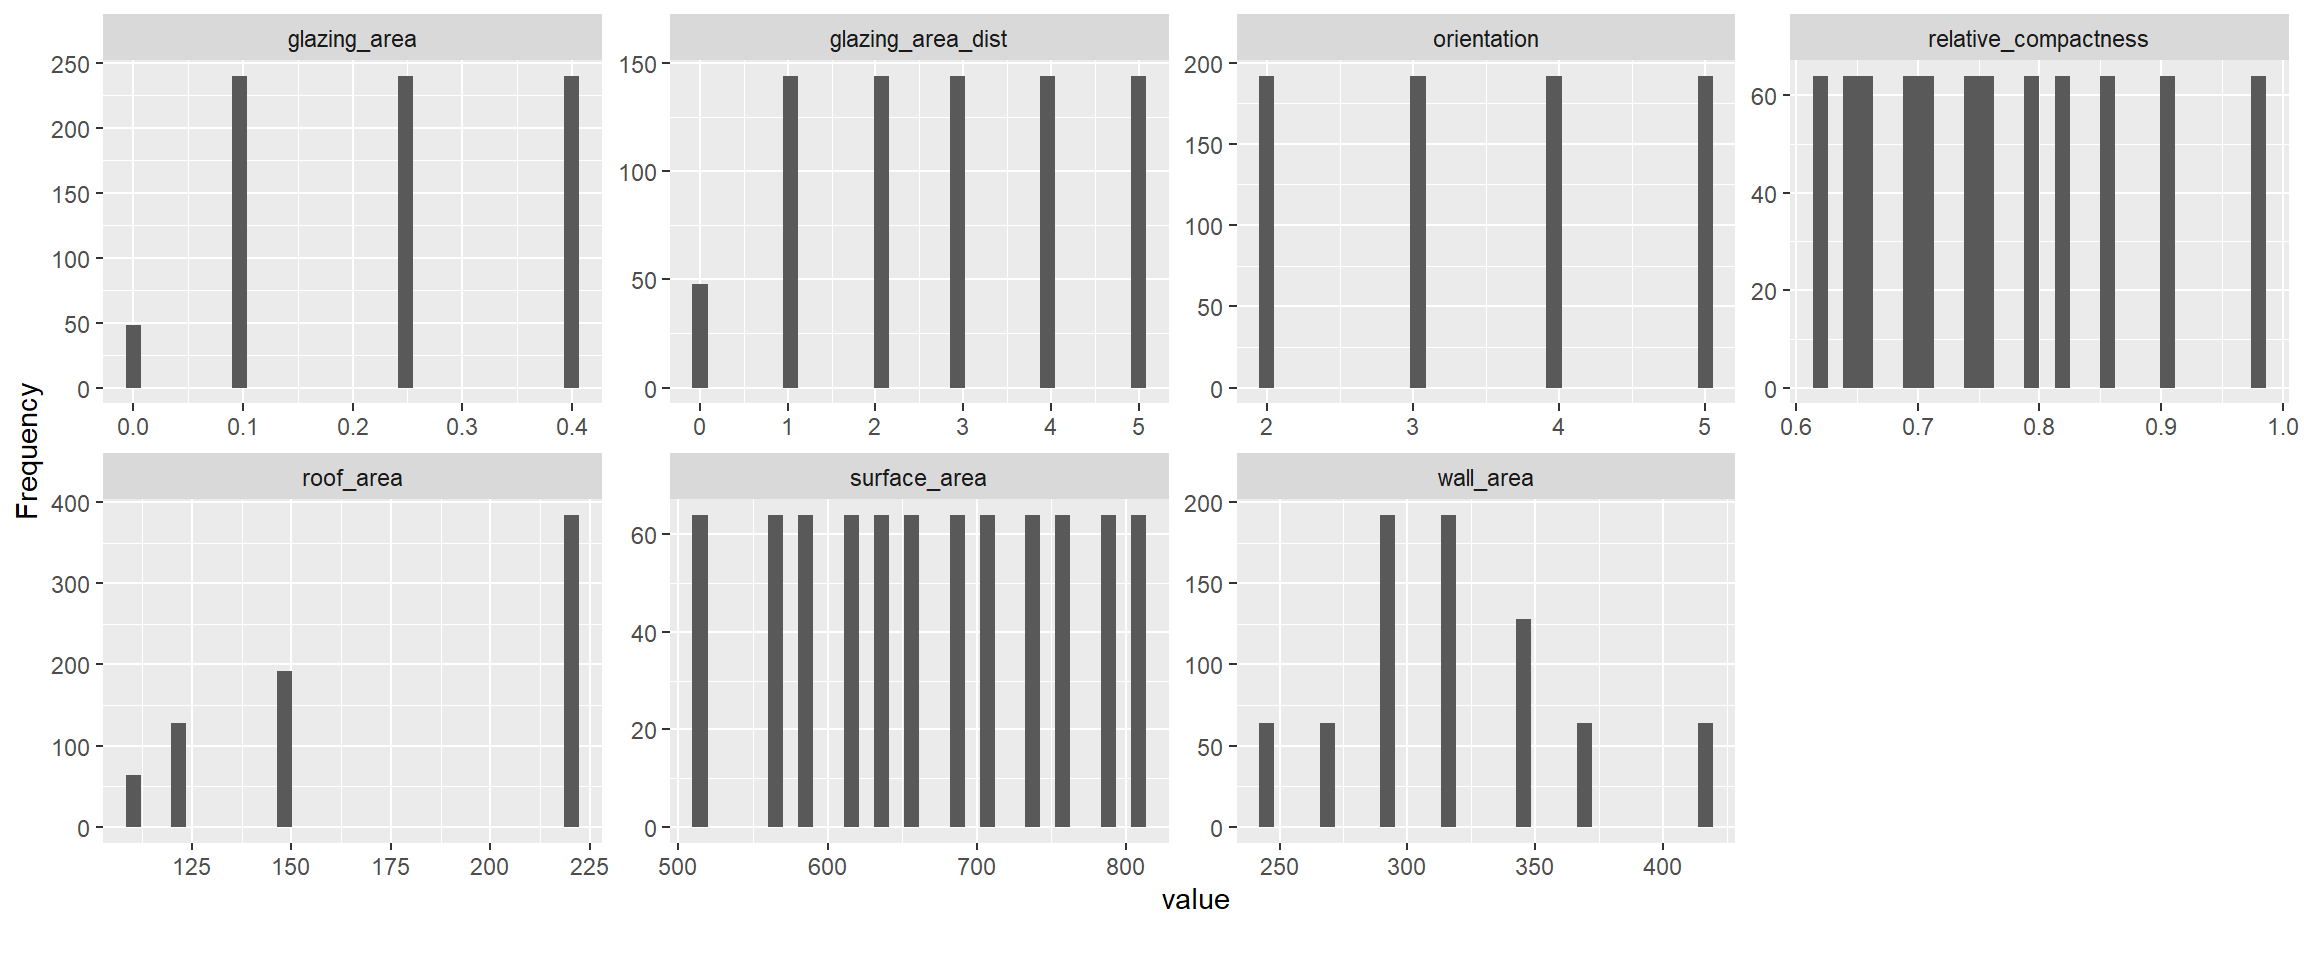
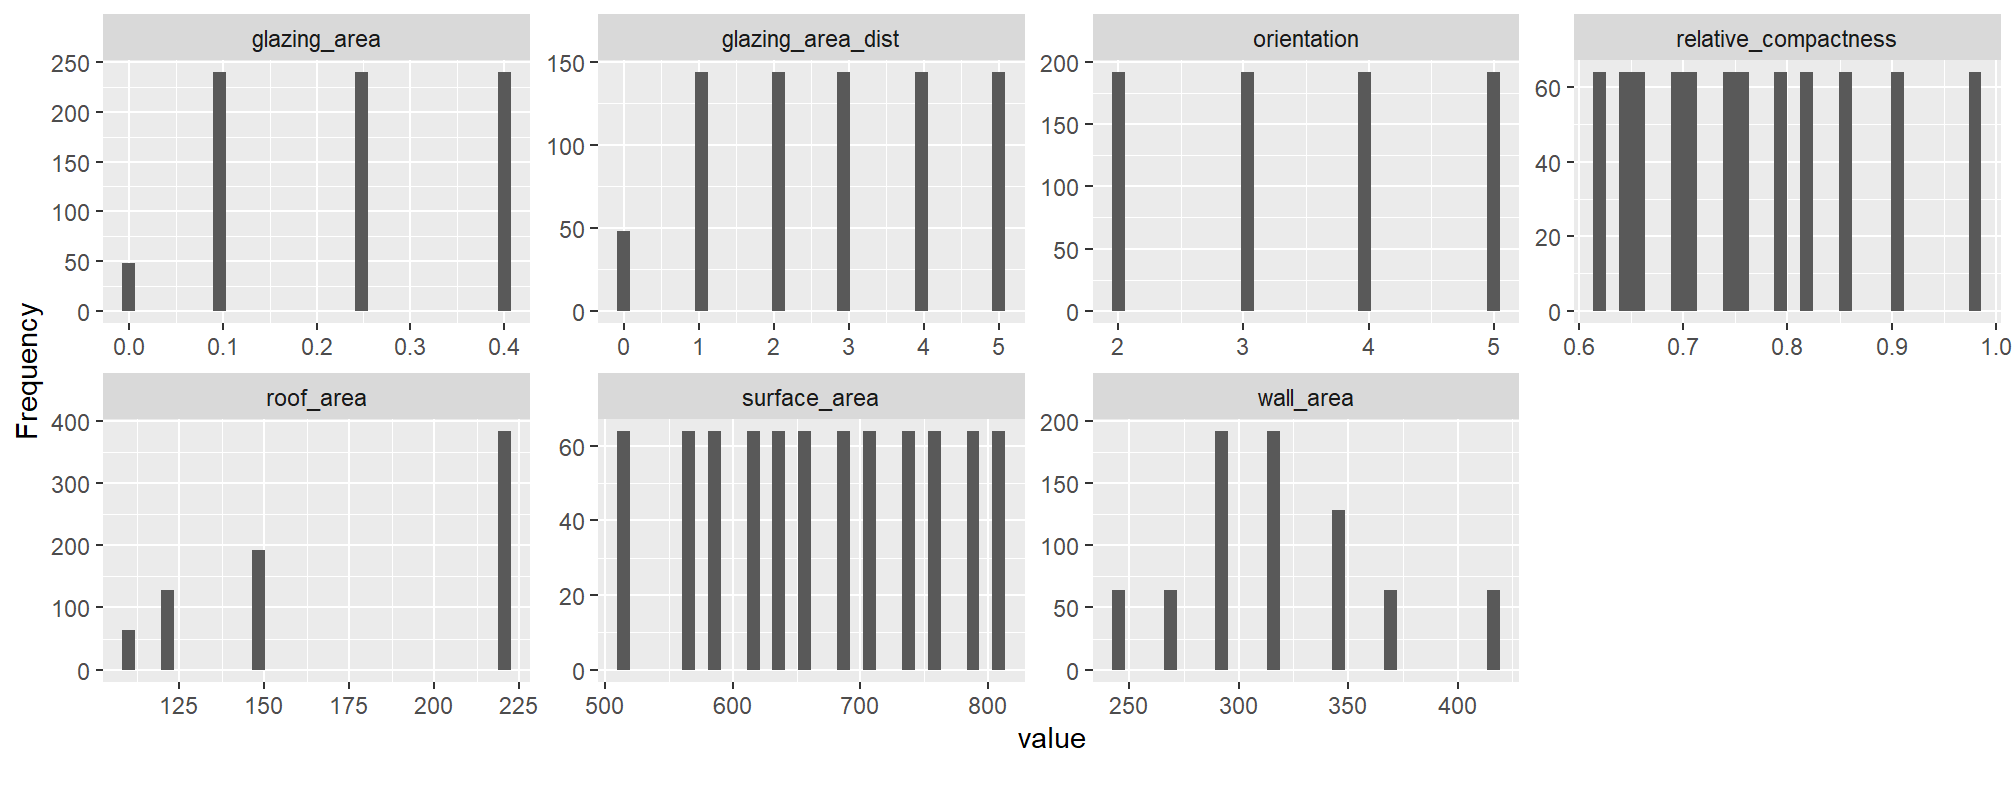
Update to tab formats

diff --git a/docs/index.html b/docs/index.html
@@ -2116,7 +2116,7 @@ value indicates a proportional relationship.</p>
 </div>
 <div id="eda" class="section level1">
 <h1>EDA</h1>
-<div id="column-5" class="section level2" data-width="375">
+<div id="column-5" class="section level2" data-width="250">
 <h2>Column</h2>
 <div id="investigating-the-data" class="section level3">
 <h3>Investigating the Data</h3>
@@ -2131,7 +2131,7 @@ response variables</p></li>
 </ul>
 </div>
 </div>
-<div id="column-6" class="section level2 tabset" data-width="625">
+<div id="column-6" class="section level2 tabset" data-width="750">
 <h2 class="tabset">Column</h2>
 <div id="scatterplots" class="section level3">
 <h3>Scatterplots</h3>
@@ -2148,10 +2148,10 @@ except for:</p>
 another, this relationship is not very useful. This supports the claim
 made by the original work: classical regression may be insufficient for
 modeling the complex relationships in this data.</p>
-<div class="knitr-options" data-fig-width="1152" data-fig-height="552">
+<div class="knitr-options" data-fig-width="1008" data-fig-height="480">
 
 </div>
-<p><img src="index_files/figure-html/scatter-plots-1.png" width="1152" data-figure-id=fig2 style="display: block; margin: auto;" /></p>
+<p><img src="index_files/figure-html/scatter-plots-1.png" width="1008" data-figure-id=fig2 style="display: block; margin: auto;" /></p>
 </div>
 </div>
 <div id="predictor-histograms" class="section level3">
@@ -2173,10 +2173,10 @@ discrete nature of the data and the constraints around the simulated
 buildings discussed earlier.Note that there is no histogram shown for
 overall height. This is due to the discreteness of the data. There are
 only two possible values for this predictor: 3.5 and 7 meters.</p>
-<div class="knitr-options" data-fig-width="1152" data-fig-height="483">
+<div class="knitr-options" data-fig-width="1008" data-fig-height="403">
 
 </div>
-<p><img src="index_files/figure-html/predictor-histograms-1.png" width="1152" data-figure-id=fig3 style="display: block; margin: auto;" /></p>
+<p><img src="index_files/figure-html/predictor-histograms-1.png" width="1008" data-figure-id=fig3 style="display: block; margin: auto;" /></p>
 </div>
 </div>
 <div id="response-histograms" class="section level3">
@@ -2192,10 +2192,10 @@ data:</p>
 response variables. There appears to be a slight imbalance in both
 variables, though this could partially be attributed to the size of the
 histogram bins.</p>
-<div class="knitr-options" data-fig-width="1152" data-fig-height="599">
+<div class="knitr-options" data-fig-width="1008" data-fig-height="480">
 
 </div>
-<p><img src="index_files/figure-html/response-histograms-1.png" width="1152" data-figure-id=fig4 style="display: block; margin: auto;" /></p>
+<p><img src="index_files/figure-html/response-histograms-1.png" width="1008" data-figure-id=fig4 style="display: block; margin: auto;" /></p>
 </div>
 </div>
 <div id="spearman-correlation-analysis" class="section level3">
@@ -2608,13 +2608,8 @@ output variable for the <span class="math inline">\(i^{th}\)</span>
 entry in the test fold, <span class="math inline">\(S\)</span> is the
 number of samples in the test fold, and <span
 class="math inline">\(Q\)</span> contains the indices of the test fold.
-Each repetition results in 10 independent error measurements.</p>
-<p>We end up with 1000 independent error measurements given <span
-class="math inline">\(K = 10\)</span> and 100 repetitions. The reported
-MAE, MSE, and MRE values are the average values of all the measurements,
-plus or minus one standard deviation. The reported errors for the IRLS
-and RF models come directly from the original work <span
-class="citation">(Tsanas &amp; Xifara, 2012)</span>.</p>
+We end up with 1000 independent error measurements. The reported metrics
+are the average values, plus or minus one standard deviation.</p>
 <div class="knitr-options" data-fig-width="576" data-fig-height="460">
 
 </div>
@@ -2765,10 +2760,7 @@ variable determined via RF. For the MLR model, the “importance” is the
 magnitude of the standardized coefficients. For a better understanding
 of how RF determines variable importance, we recommend reviewing the
 literature <span class="citation">(Strobl, Boulesteix, Zeileis, &amp;
-Hothorn, 2007)</span>.</p>
-<p>For both models, a larger magnitude for a given predictor indicates a
-larger impact on the response variable. The values for each model are
-not on the same scale. The ranking of variable importance is denoted in
+Hothorn, 2007)</span>. The ranking of variable importance is denoted in
 the parenthesis next to each variables importance value, where 1 is the
 most important.</p>
 <p>The heating and cooling load RF models have similar orders of
@@ -2776,14 +2768,13 @@ importance, but the cooling load model found glazing area distribution
 and orientation to be more important than its heating load counterpart.
 The heating and cooling load MLR models have the same order of
 importance for the predictors they have in common.</p>
-<p>The heating load model has glazing area distribution area as an
-additional predictor, but it has the smallest magnitude of all the
-standardized coefficients. Interestingly, the RF model found that roof
-area and orientation were two of the least important predictors in both
+<p>The MLR heating load model has glazing area distribution area as an
+additional predictor. Interestingly, the RF model found that roof area
+and orientation were two of the least important predictors in both
 models, both of which were removed as predictors from the MLR
 models.</p>
-<p>The MLR cooling load model also removed glazing area distribution as
-a predictor, which the RF cooling load model found to have moderate
+<p>The MLR cooling load model removed glazing area distribution as a
+predictor, which the RF cooling load model found to have moderate
 relative importance. However, both RF models found glazing area to be
 the most important predictor, while both MLR models found it to be one
 of the least important variables used.</p>
@@ -2876,23 +2867,22 @@ the complex, non-linear relationships in this dataset.</p>
 </div>
 <div id="summary" class="section level1">
 <h1>Summary</h1>
-<div id="column-11" class="section level2" data-width="650">
+<div id="column-11" class="section level2" data-width="300">
 <h2>Column</h2>
-<div id="final-model-interpretations" class="section level3"
-data-height="300">
+<div id="final-model-interpretations" class="section level3">
 <h3>Final Model Interpretations</h3>
 <p>Given the final MLR heating and cooling load estimated standardized
 coefficients, the estimated models can be written as follows:</p>
 <ul>
 <li><p><span class="math inline">\(\hat{Heat \space Load} =
 6.85(\textit{relative compactness}) + 7.69(\textit{surface area}) +
-2.65(\textit{wall area}) + 7.30(\textit{overall height}) +
-2.66(\textit{glazing area}) + 0.32(\textit{glazing area
+\newline 2.65(\textit{wall area}) + 7.30(\textit{overall height}) +
+\newline 2.66(\textit{glazing area}) + 0.32(\textit{glazing area
 distribution})\)</span></p></li>
 <li><p><span class="math inline">\(\hat{Cool \space Load} =
 7.49(\textit{relative compactness}) + 7.78(\textit{surface area}) +
-1.95(\textit{wall area}) + 7.50(\textit{overall height}) +
-1.97(\textit{glazing area})\)</span></p></li>
+\newline 1.95(\textit{wall area}) + 7.50(\textit{overall height}) +
+\newline 1.97(\textit{glazing area})\)</span></p></li>
 </ul>
 <p>Since only the predictors were standardized, interpretation is as
 follows, within model context. Relative compactness from the heating
@@ -2900,7 +2890,10 @@ load model is used here as an example: for every one-standard-deviation
 change in relative compactness, the expected change in heat load is 6.85
 units, holding all other variables constant.</p>
 </div>
-<div id="conclusion" class="section level3" data-height="700">
+</div>
+<div id="column-12" class="section level2" data-width="350">
+<h2>Column</h2>
+<div id="conclusion" class="section level3">
 <h3>Conclusion</h3>
 <p>In this project, we perform 10-fold CV of a publicly available
 dataset from simulated EPB data. Previous work <span
@@ -2943,9 +2936,9 @@ work, guide intuitions and decisions made when it comes to real-world
 analysis.</p>
 </div>
 </div>
-<div id="column-12" class="section level2" data-width="350">
+<div id="column-13" class="section level2" data-width="250">
 <h2>Column</h2>
-<div id="author-information" class="section level3">
+<div id="author-information" class="section level3" data-height="45">
 <h3>Author Information</h3>
 <p>Eric Smith is a PhD student in the department of Electrical and
 Computer Engineering at the University of Dayton. He holds a B.S. in
@@ -2957,7 +2950,7 @@ interests broadly include computer vision problems involving object
 detection and tracking, with his most recent work focused on a modular
 algorithm for small drone detection and tracking.</p>
 </div>
-<div id="references" class="section level3">
+<div id="references" class="section level3" data-height="40">
 <h3>References</h3>
 <div id="refs" class="references csl-bib-body hanging-indent"
 entry-spacing="0" line-spacing="2">
@@ -2982,7 +2975,7 @@ learning tools. <em>Energy and Buildings</em>, <em>49</em>, 560–567.
 </div>
 </div>
 </div>
-<div id="disclaimers" class="section level3">
+<div id="disclaimers" class="section level3" data-height="15">
 <h3>Disclaimers</h3>
 <p>ChatGPT, Google AI Overview, and Google Gemini were used to help with
 general code problems, like syntax, as well as determining necessary
@@ -3187,7 +3180,7 @@ knitr::include_graphics("./Figures/RF_Regression.png")
 EDA
 ===
 
-Column {data-width=375}
+Column {data-width=250}
 ---
 
 ### Investigating the Data
@@ -3201,7 +3194,7 @@ We begin with EDA of the full dataset. Discussion and conclusions and can be fou
 
 * Spearman rank correlation coefficients between predictors and response variables
 
-Column {.tabset data-width=625}
+Column {.tabset data-width=750}
 ---
 
 ### Scatterplots
@@ -3215,7 +3208,7 @@ The pairwise scatterplot shows scatterplots for all predictor and response varia
 
 Since heat load and cool load are not used as predictors of one another, this relationship is not very useful. This supports the claim made by the original work: classical regression may be insufficient for modeling the complex relationships in this data.
 
-```{r scatter-plots, fig.width=12, fig.height=5.76, fig.align='center', echo=FALSE}
+```{r scatter-plots, fig.width=10.5, fig.height=5, fig.align='center', echo=FALSE}
 oldpar &lt;- par(no.readonly = TRUE)
 par(bg = "white")
 pairs(~heat_load + cool_load + relative_compactness + surface_area + wall_area + roof_area +
@@ -3238,7 +3231,7 @@ The predictor histograms show the following distributions found in the data:
 
 These distributions are intentional and to be expected due to the discrete nature of the data and the constraints around the simulated buildings discussed earlier.Note that there is no histogram shown for overall height. This is due to the discreteness of the data. There are only two possible values for this predictor: 3.5 and 7 meters.
 
-```{r predictor-histograms, fig.width=12, fig.height=5.04, fig.align='center', echo=FALSE}
+```{r predictor-histograms, fig.width=10.5, fig.height=4.2, fig.align='center', echo=FALSE}
 plot_histogram(df[, c(1:8)], nrow = 2, ncol = 4) # histograms of predictors
 ```
 
@@ -3251,7 +3244,7 @@ The response histograms show the following distribution found in the data:
 
 By design, there is more continuity in the distributions of both response variables. There appears to be a slight imbalance in both variables, though this could partially be attributed to the size of the histogram bins.
 
-```{r response-histograms, fig.width=12, fig.height=6.24, fig.align='center', echo=FALSE}
+```{r response-histograms, fig.width=10.5, fig.height=5, fig.align='center', echo=FALSE}
 plot_histogram(df[, c(-1:-8)], nrow = 1, ncol = 2) # histograms of response variables
 ```
 
@@ -3453,9 +3446,7 @@ To compare the MLR models to the original work, we use MAE, MSE, and MRE, define
 
 * $MRE = \dfrac{100}{S} \Sigma_{i \epsilon Q} \dfrac{|y_i - \hat{y}_i|}{y_i}$,
 
-where $\hat{y}_i$ is the predicted output variable, $y_i$ is the actual output variable for the $i^{th}$ entry in the test fold, $S$ is the number of samples in the test fold, and $Q$ contains the indices of the test fold. Each repetition results in 10 independent error measurements. 
-
-We end up with 1000 independent error measurements given $K = 10$ and 100 repetitions. The reported MAE, MSE, and MRE values are the average values of all the measurements, plus or minus one standard deviation. The reported errors for the IRLS and RF models come directly from the original work [@tsanas2012accurate].
+where $\hat{y}_i$ is the predicted output variable, $y_i$ is the actual output variable for the $i^{th}$ entry in the test fold, $S$ is the number of samples in the test fold, and $Q$ contains the indices of the test fold. We end up with 1000 independent error measurements. The reported metrics are the average values, plus or minus one standard deviation. 
 
 ```{r k-fold-testing, echo=FALSE, warning=FALSE, message=FALSE}
 # Define the number of repetitions and folds
@@ -3729,15 +3720,13 @@ tt(cool_df) %&gt;%
 ```
 
 ### Importance of Variables
-The table shows the importance of each predictor for a given response variable determined via RF. For the MLR model, the "importance" is the magnitude of the standardized coefficients. For a better understanding of how RF determines variable importance, we recommend reviewing the literature [@strobl2007bias]. 
-
-For both models, a larger magnitude for a given predictor indicates a larger impact on the response variable. The values for each model are not on the same scale. The ranking of variable importance is denoted in the parenthesis next to each variables importance value, where 1 is the most important.
+The table shows the importance of each predictor for a given response variable determined via RF. For the MLR model, the "importance" is the magnitude of the standardized coefficients. For a better understanding of how RF determines variable importance, we recommend reviewing the literature [@strobl2007bias]. The ranking of variable importance is denoted in the parenthesis next to each variables importance value, where 1 is the most important.
 
 The heating and cooling load RF models have similar orders of importance, but the cooling load model found glazing area distribution and orientation to be more important than its heating load counterpart. The heating and cooling load MLR models have the same order of importance for the predictors they have in common.
 
-The heating load model has glazing area distribution area as an additional predictor, but it has the smallest magnitude of all the standardized coefficients. Interestingly, the RF model found that roof area and orientation were two of the least important predictors in both models, both of which were removed as predictors from the MLR models. 
+The MLR heating load model has glazing area distribution area as an additional predictor. Interestingly, the RF model found that roof area and orientation were two of the least important predictors in both models, both of which were removed as predictors from the MLR models. 
 
-The MLR cooling load model also removed glazing area distribution as a predictor, which the RF cooling load model found to have moderate relative importance. However, both RF models found glazing area to be the most important predictor, while both MLR models found it to be one of the least important variables used. 
+The MLR cooling load model removed glazing area distribution as a predictor, which the RF cooling load model found to have moderate relative importance. However, both RF models found glazing area to be the most important predictor, while both MLR models found it to be one of the least important variables used. 
 
 The MLR models also significantly overvalued overall height as a predictor in both models. Both RF models found it to be the least important variable. These results point to the same conclusion from the original work: classical regression analysis is not capable of capturing the complex, non-linear relationships in this dataset.
 
@@ -3853,19 +3842,22 @@ tt(importance_df) %&gt;%
 Summary
 ===
 
-Column {data-width=650}
+Column {data-width=300}
 ---
 
-### Final Model Interpretations {data-height=300}
+### Final Model Interpretations
 Given the final MLR heating and cooling load estimated standardized coefficients, the estimated models can be written as follows:
 
-* $\hat{Heat \space Load} = 6.85(\textit{relative compactness}) + 7.69(\textit{surface area}) + 2.65(\textit{wall area}) + 7.30(\textit{overall height}) + 2.66(\textit{glazing area}) + 0.32(\textit{glazing area distribution})$
+* $\hat{Heat \space Load} = 6.85(\textit{relative compactness}) + 7.69(\textit{surface area}) + \newline 2.65(\textit{wall area}) + 7.30(\textit{overall height}) + \newline 2.66(\textit{glazing area}) + 0.32(\textit{glazing area distribution})$
 
-* $\hat{Cool \space Load} = 7.49(\textit{relative compactness}) + 7.78(\textit{surface area}) + 1.95(\textit{wall area}) + 7.50(\textit{overall height}) + 1.97(\textit{glazing area})$
+* $\hat{Cool \space Load} = 7.49(\textit{relative compactness}) + 7.78(\textit{surface area}) + \newline 1.95(\textit{wall area}) + 7.50(\textit{overall height}) + \newline 1.97(\textit{glazing area})$
 
 Since only the predictors were standardized, interpretation is as follows, within model context. Relative compactness from the heating load model is used here as an example: for every one-standard-deviation change in relative compactness, the expected change in heat load is 6.85 units, holding all other variables constant.
 
-### Conclusion {data-height=700}
+Column {data-width=350}
+---
+
+### Conclusion
 In this project, we perform 10-fold CV of a publicly available dataset from simulated EPB data. Previous work [@tsanas2012accurate] explored the use of IRLS and RF to model heating and cooling loads given 8 predictors, claiming that classical regression analysis was insufficient for capturing the complex nature of the relationships between variables. This work explored that claim by going through a model selection process that removed insignificant predictors from the heating and cooling load models when using the full dataset. 10-fold CV testing was conducted 100 times to replicate the experiment in the original work, providing MAE, MSE, and MRE metrics for direct comparison to the published IRLS and RF results. 
 
 We found that while RF was superior to the MLR models in this work, proper variable selection for the MLR models actually resulted in better performance than the IRLS models. Since IRLS is designed specifically for optimizing regression model coefficients and to handle outliers, this is a significant result. It shows that while RF is still superior for better capturing highly non-linear relationships, finely selecting the best predictors for classical regression analysis is better than simply using all variables and using IRLS in an attempt to optimize the model.
@@ -3882,16 +3874,16 @@ It is important to note that all of the results from this project, and the publi
 
 However, the dataset is sufficient for comparing estimated models using different methods. This is important when it comes to real-world data, as the results from this work, the published work, and any prior work, guide intuitions and decisions made when it comes to real-world analysis.
 
-Column {data-width=350}
+Column {data-width=250}
 ---
 
-### Author Information
+### Author Information {data-height=45}
 Eric Smith is a PhD student in the department of Electrical and Computer Engineering at the University of Dayton. He holds a B.S. in Physics from the Ohio State University and M.S. in Electro-Optics from the University of Dayton. He works full-time for a small defense contractor in Beavercreek, Ohio, specializing in directed energy and atmospheric simulation, modeling, and measurement. His research interests broadly include computer vision problems involving object detection and tracking, with his most recent work focused on a modular algorithm for small drone detection and tracking.
 
-### References
+### References {data-height=40}
 &lt;div id="refs"&gt;&lt;/div&gt;
 
-### Disclaimers
+### Disclaimers {data-height=15}
 ChatGPT, Google AI Overview, and Google Gemini were used to help with general code problems, like syntax, as well as determining necessary libraries and how to use their functions in R. Google Gemini was used to generate the IRLS flowchart and RF illustration in Figures [2](#IRLS-Flowchart) and [3](#RF-illustration), respectively.
 </code></pre>
 </div>
